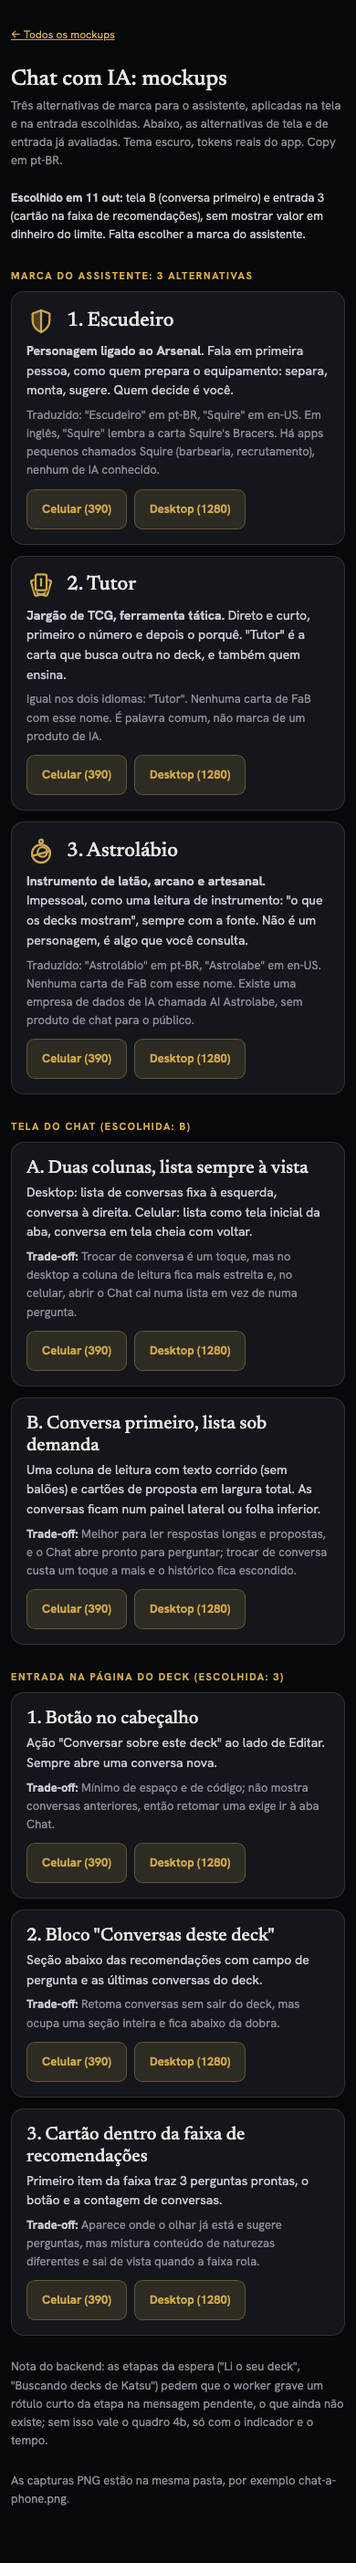
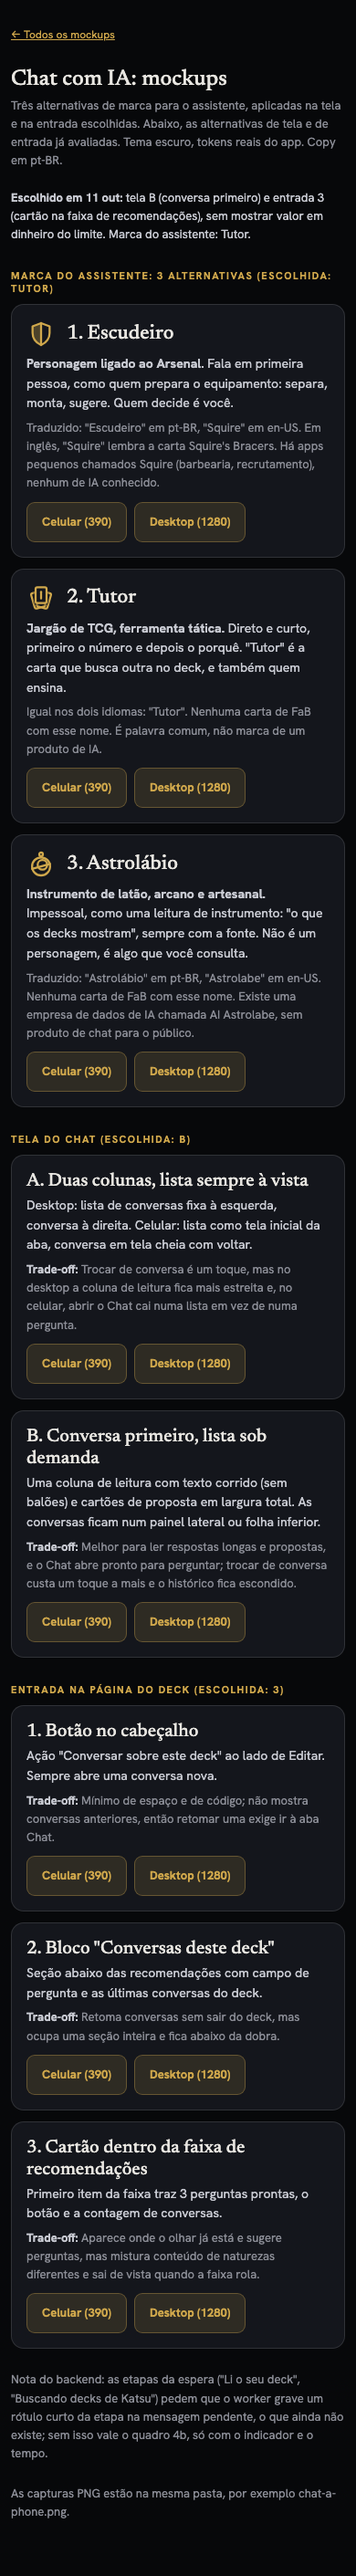
feat(chat): name the assistant Tutor
The owner picked Tutor from the three branding alternatives. The
system instruction now introduces the model as Tutor in every locale
(AC 73, C77), so the answers match the name the screens will show.
Kavdaen was considered and rejected: a hero in the card pool makes
answers about that hero ambiguous, and his card art as the logo
breaks the original-marks rule in docs/research/ip-posture.md.

Claude-Session: https://claude.ai/code/session_014N4i6tCtKjcepgcbiLouV9

diff --git a/.design/mockups/ai-chat/index.html b/.design/mockups/ai-chat/index.html
@@ -98,8 +98,8 @@ button{font:inherit;color:inherit}
 .li .m .chip{min-height:20px;font-size:11px;padding:0 7px;max-width:70%}.li .m .chip span{overflow:hidden;text-overflow:ellipsis;white-space:nowrap}
 .sep{height:1px;background:var(--bd)}
 </style></head><body><div class="pg "><div class="nav"><a href="#">&larr; Todos os mockups</a></div><h1>Chat com IA: mockups</h1><p class="sub">Três alternativas de marca para o assistente, aplicadas na tela e na entrada escolhidas. Abaixo, as alternativas de tela e de entrada já avaliadas. Tema escuro, tokens reais do app. Copy em pt-BR.</p><style>a.btn{text-decoration:none}.mk{stroke:currentColor;fill:none;stroke-width:1.7;stroke-linecap:round;stroke-linejoin:round}h2.x{font:700 11px var(--ui);letter-spacing:.14em;text-transform:uppercase;color:var(--accent);margin:28px 0 10px}</style>
-<p class="sub" style="color:var(--fg2)"><b>Escolhido em 11 out:</b> tela B (conversa primeiro) e entrada 3 (cartão na faixa de recomendações), sem mostrar valor em dinheiro do limite. Falta escolher a marca do assistente.</p>
-<h2 class="x">Marca do assistente: 3 alternativas</h2>
+<p class="sub" style="color:var(--fg2)"><b>Escolhido em 11 out:</b> tela B (conversa primeiro) e entrada 3 (cartão na faixa de recomendações), sem mostrar valor em dinheiro do limite. Marca do assistente: Tutor.</p>
+<h2 class="x">Marca do assistente: 3 alternativas (escolhida: Tutor)</h2>
 <div style="border:1px solid var(--bd2);background:var(--surface);border-radius:14px;padding:16px;margin-bottom:12px"><div style="display:flex;align-items:center;gap:12px;margin-bottom:6px;color:var(--accent)"><svg class="mk" viewBox="0 0 24 24" width="32" height="32" aria-hidden="true" ><path d="M12 3l7 2.6V11c0 4.6-2.9 8-7 10-4.1-2-7-5.4-7-10V5.6z"/><path d="M12 3L5 5.6V11c0 4.6 2.9 8 7 10z" fill="currentColor" fill-opacity=".3" stroke="none"/><path d="M12 3v18"/></svg><h3 style="margin:0;font:500 22px/1.2 var(--display);color:var(--fg)">1. Escudeiro</h3></div><p style="margin:0 0 6px;color:var(--fg2)"><b>Personagem ligado ao Arsenal.</b> Fala em primeira pessoa, como quem prepara o equipamento: separa, monta, sugere. Quem decide é você.</p><p style="margin:0 0 10px;color:var(--fg3);font-size:13px">Traduzido: "Escudeiro" em pt-BR, "Squire" em en-US. Em inglês, "Squire" lembra a carta Squire's Bracers. Há apps pequenos chamados Squire (barbearia, recrutamento), nenhum de IA conhecido.</p><div style="display:flex;gap:8px;flex-wrap:wrap"><a class="btn s" href="brand-1-phone.html">Celular (390)</a><a class="btn s" href="brand-1-desktop.html">Desktop (1280)</a></div></div><div style="border:1px solid var(--bd2);background:var(--surface);border-radius:14px;padding:16px;margin-bottom:12px"><div style="display:flex;align-items:center;gap:12px;margin-bottom:6px;color:var(--accent)"><svg class="mk" viewBox="0 0 24 24" width="32" height="32" aria-hidden="true" ><mask id="tutor-front"><rect width="24" height="24" fill="#fff"/><rect x="6.3" y="1.3" width="11.4" height="15.4" rx="2" fill="#000"/></mask><g mask="url(#tutor-front)"><rect x="7.5" y="6" width="9" height="13" rx="1.4" transform="rotate(-16 12 21)"/><rect x="7.5" y="6" width="9" height="13" rx="1.4" transform="rotate(16 12 21)"/></g><rect x="7.5" y="2.5" width="9" height="13" rx="1.4"/><path d="M12 6.2v5.6"/></svg><h3 style="margin:0;font:500 22px/1.2 var(--display);color:var(--fg)">2. Tutor</h3></div><p style="margin:0 0 6px;color:var(--fg2)"><b>Jargão de TCG, ferramenta tática.</b> Direto e curto, primeiro o número e depois o porquê. "Tutor" é a carta que busca outra no deck, e também quem ensina.</p><p style="margin:0 0 10px;color:var(--fg3);font-size:13px">Igual nos dois idiomas: "Tutor". Nenhuma carta de FaB com esse nome. É palavra comum, não marca de um produto de IA.</p><div style="display:flex;gap:8px;flex-wrap:wrap"><a class="btn s" href="brand-2-phone.html">Celular (390)</a><a class="btn s" href="brand-2-desktop.html">Desktop (1280)</a></div></div><div style="border:1px solid var(--bd2);background:var(--surface);border-radius:14px;padding:16px;margin-bottom:12px"><div style="display:flex;align-items:center;gap:12px;margin-bottom:6px;color:var(--accent)"><svg class="mk" viewBox="0 0 24 24" width="32" height="32" aria-hidden="true" ><circle cx="12" cy="13.6" r="7.4"/><circle cx="13.1" cy="12.3" r="3.9"/><path d="M4.6 15.6L19.4 11.6"/><circle cx="12" cy="3.7" r="1.5"/><path d="M12 5.2v1"/></svg><h3 style="margin:0;font:500 22px/1.2 var(--display);color:var(--fg)">3. Astrolábio</h3></div><p style="margin:0 0 6px;color:var(--fg2)"><b>Instrumento de latão, arcano e artesanal.</b> Impessoal, como uma leitura de instrumento: "o que os decks mostram", sempre com a fonte. Não é um personagem, é algo que você consulta.</p><p style="margin:0 0 10px;color:var(--fg3);font-size:13px">Traduzido: "Astrolábio" em pt-BR, "Astrolabe" em en-US. Nenhuma carta de FaB com esse nome. Existe uma empresa de dados de IA chamada AI Astrolabe, sem produto de chat para o público.</p><div style="display:flex;gap:8px;flex-wrap:wrap"><a class="btn s" href="brand-3-phone.html">Celular (390)</a><a class="btn s" href="brand-3-desktop.html">Desktop (1280)</a></div></div>
 <h2 class="x">Tela do Chat (escolhida: B)</h2>
 <div style="border:1px solid var(--bd2);background:var(--surface);border-radius:14px;padding:16px;margin-bottom:12px"><h3 style="margin:0 0 4px;font:500 20px/1.2 var(--display)">A. Duas colunas, lista sempre à vista</h3><p style="margin:0 0 6px;color:var(--fg2)">Desktop: lista de conversas fixa à esquerda, conversa à direita. Celular: lista como tela inicial da aba, conversa em tela cheia com voltar.</p><p style="margin:0 0 10px;color:var(--fg3);font-size:13px"><b style="color:var(--fg2)">Trade-off:</b> Trocar de conversa é um toque, mas no desktop a coluna de leitura fica mais estreita e, no celular, abrir o Chat cai numa lista em vez de numa pergunta.</p><div style="display:flex;gap:8px;flex-wrap:wrap"><a class="btn s" href="chat-a-phone.html">Celular (390)</a><a class="btn s" href="chat-a-desktop.html">Desktop (1280)</a></div></div>

diff --git a/apps/api/src/chat/chat-prompt.ts b/apps/api/src/chat/chat-prompt.ts
@@ -21,7 +21,7 @@ export interface IPromptInput {
 }
 
 const PRIMER = [
-  'You are the deck-building assistant of Rathe Arsenal, a site where Flesh and Blood players track their decks, collection and readiness.',
+  'You are Tutor, the deck-building assistant of Rathe Arsenal, a site where Flesh and Blood players track their decks, collection and readiness.',
   'Flesh and Blood is a trading card game where two heroes fight; each deck has one hero, weapons, equipment and a card pool, and is built for one format (Classic Constructed, Blitz, Living Legend, Silver Age).',
   'Cards have a pitch value (red 1, yellow 2, blue 3) used to pay costs; most cards may be played at most 3 times in a deck, Legendary cards once.',
   'You read the user\'s data only through the tools: their decks, owned copies, the card catalog with legality, their latest recommendations, tournament decks with placement copied from Fabrary, and the comprehensive rules.',

diff --git a/apps/api/src/chat/__tests__/chat-prompt.spec.ts b/apps/api/src/chat/__tests__/chat-prompt.spec.ts
@@ -18,6 +18,14 @@ describe('chat system instruction', () => {
     expect(en).toContain('could not confirm the rule');
   });
 
+  it('the instruction names the assistant Tutor in every locale', () => {
+    const today = new Date('2026-10-11T00:00:00Z');
+
+    const texts = ['pt-BR', 'en-US'].map((locale) => buildSystemInstruction({ locale, decks: [], boundDeck: null, today }));
+
+    for (const text of texts) expect(text).toContain('You are Tutor, the deck-building assistant of Rathe Arsenal');
+  });
+
   it("the summary lists every deck and a bound deck's cards", () => {
     const text = buildSystemInstruction({
       locale: 'en-US',

diff --git a/.design/ai-chat.md b/.design/ai-chat.md
@@ -28,7 +28,7 @@ Nothing measures this today; the twice-a-month figure is the owner's own account
 
 In: a chat tab with saved conversations; a conversation started from a deck page and bound to that deck; a model that reads the user's decks, collection, latest recommendations, the card catalog with legality, a local copy of Fabrary tournament decks with placement, and the comprehensive rules; proposals of a new deck or of a card swap that the user applies with one click; a per-user access flag and a monthly spend cap.
 
-Out: the model changing decks without the user applying a proposal - a later step once proposals prove trustworthy. Out: charging for the feature - `docs/research/ip-posture.md` rules 1 and 3 forbid a paywall or a patron-gated feature that depends on card data without express permission from LSS; reopening it needs that permission or an ads/Patreon model that does not gate the feature. Out: hero win rates from Talishar online games - needs an API key obtained through Metafy and terms that allow product use, both the owner's to resolve; it becomes its own slice when the key exists. Out: YouTube content - no source. Out: fine-tuning. In since 2026-10-11: a name and mark for the assistant, replacing the working name "Chat" on the tab, the answer label, the empty state and the deck entry; the owner picks from three alternatives (`.design/mockups/ai-chat/brand-*`), and the picked name also goes into the model's system instruction. Out: opening to all Cúpula DT users. Out: a second model or provider fallback.
+Out: the model changing decks without the user applying a proposal - a later step once proposals prove trustworthy. Out: charging for the feature - `docs/research/ip-posture.md` rules 1 and 3 forbid a paywall or a patron-gated feature that depends on card data without express permission from LSS; reopening it needs that permission or an ads/Patreon model that does not gate the feature. Out: hero win rates from Talishar online games - needs an API key obtained through Metafy and terms that allow product use, both the owner's to resolve; it becomes its own slice when the key exists. Out: YouTube content - no source. Out: fine-tuning. In since 2026-10-11: a name and mark for the assistant, replacing the working name "Chat" on the tab, the answer label, the empty state and the deck entry. Picked 2026-10-11: **Tutor** (same name in pt-BR and en-US; mark: a fan of three cards with the middle one raised, `.design/mockups/ai-chat/brand-2-*`); the name is in the model's system instruction. Rejected: Escudeiro/Squire and Astrolábio/Astrolabe (the other two alternatives), and Kavdaen, raised by the owner: a hero in the card pool makes answers about that hero ambiguous, a Legend Story Studios character as the product's voice reads as endorsed, and his card art as the logo breaks the original-marks rule in `docs/research/ip-posture.md`. Out: opening to all Cúpula DT users. Out: a second model or provider fallback.
 
 Unchanged: `recommendation_run` and its queue; the recommendations rail; card alternatives and their suggestions; readiness and its stand-in search; the Fabrary import. New cards still arrive only with a bump of `@flesh-and-blood/cards`; the model knows nothing a release added before that bump.
 
@@ -272,7 +272,7 @@ sequenceDiagram
 **Delivers** the third main tab. **Status: design** - the owner picks from at least two mockups before it is built (project `CLAUDE.md`).
 
 - Design: conversation list, thread and composer, on phone and desktop; must answer for the states empty, waiting for an answer (the polled wait, which decides whether streaming becomes worth it), failed with retry, budget reached with reset date, a deck proposal card (counts of owned and missing cards, apply, dismiss, applied, stale), a swap proposal card, and a bound conversation's deck chip.
-- Picked 2026-10-11: alternative B (thread first, one reading column, conversations in a bottom sheet or side panel). The screen shows no money amount: no spend line, and the budget-reached state names only the reset date. `GET /api/chat/usage` stays, so the composer can be disabled before the user types. Still open: the assistant's name and mark.
+- Picked 2026-10-11: alternative B (thread first, one reading column, conversations in a bottom sheet or side panel). The screen shows no money amount: no spend line, and the budget-reached state names only the reset date. `GET /api/chat/usage` stays, so the composer can be disabled before the user types. The assistant is named Tutor, with the card-fan mark (see Out).
 
 ### Deck chat entry
 

diff --git a/.specs/features/ai-chat/checks.md b/.specs/features/ai-chat/checks.md
@@ -313,6 +313,9 @@ Proof: `e2e src/chat/__tests__/chat-access.e2e-spec.ts -t "every chat route requ
 **C76** - Every chat route other than send and retry answers `429` after the global 120-per-minute limit, table-driven (Surface `429` members) · done
 Proof: `e2e src/chat/__tests__/chat-throttle.e2e-spec.ts -t "every chat route is throttled"` (extended after verification round 1: no route answers 429 within its first 120 requests, so the limit itself is pinned)
 
+**C77** - The system instruction contains `You are Tutor, the deck-building assistant of Rathe Arsenal` for both `pt-BR` and `en-US` (AC 73; added 2026-10-11 when the owner picked the name)
+Proof: `unit src/chat/__tests__/chat-prompt.spec.ts -t "the instruction names the assistant Tutor in every locale"`
+
 - Claims naming a status code, route or response shape: C1-C4, C24-C35, C57, C62-C68, C70, C75, C76 - each has a proof that crosses the HTTP boundary against real Postgres
 - Decision tables proven at their own layer and again at the boundary: provider and answer outcomes (C49, C51 client and turn specs, plus C48, C49, C52 against Postgres); proposal validation (C58, C59 unit, plus C60, C41 e2e); history (C44 unit, plus C45 e2e); listing split (C6 unit, plus C8 e2e); name parse (C10 unit and e2e); rules parse (C18 unit, plus C19, C21 e2e)
 - No other check claims more than the single case its proof exercises

diff --git a/.specs/features/ai-chat/plan.md b/.specs/features/ai-chat/plan.md
@@ -236,6 +236,7 @@ Validated proposals of a new deck or a swap, applied or dismissed by the user.
 70. WHEN a chat swap is reverted THEN its copies SHALL return as for an adopted recommendation
 71. The alternatives pick route SHALL refuse `pickedFrom: chat` with `400`
 72. The API SHALL log `chat.proposal.applied` and `chat.proposal.dismissed` with proposal id, kind and user id, and `chat.proposal.stale` with the reason
+73. The system instruction SHALL name the assistant `Tutor` in every locale, so the model introduces itself by the name the screens show (added 2026-10-11, when the owner picked the name)
 
 **Independent test:** store a deck and a swap proposal through a stubbed turn, apply both, read the new deck and the replacement; apply again and get `409`.
 
@@ -300,7 +301,7 @@ Validated proposals of a new deck or a swap, applied or dismissed by the user.
 | worker chat loop | output and failure | AC 55 |
 | collection: tournament decks | duplicates, the name that does not fit | AC 9 (one per id), AC 10 (unparsed name kept) |
 | collection: rules entries | ordering, the exception | AC 21 (rank, exact number first), AC 22 (none found) |
-| copy: system instruction | tone, what the model does next | AC 39 |
+| copy: system instruction | tone, what the model does next, the assistant's name | AC 39, AC 73 |
 
 ## Sources
 

diff --git a/.specs/features/ai-chat/implementation-notes.md b/.specs/features/ai-chat/implementation-notes.md
@@ -25,5 +25,5 @@ Autonomous run on 2026-10-11, owner away. Every call below that would normally w
 ## Needs owner
 
 - ~~Pick a mockup for the chat screen and for the deck chat entry.~~ Picked 2026-10-11: chat B and deck entry 3, with no money amount on screen.
-- Pick the assistant's name and mark from `.design/mockups/ai-chat/brand-1..3` (Escudeiro, Tutor, Astrolábio); the pick also goes into `buildSystemInstruction`.
+- ~~Pick the assistant's name and mark from `.design/mockups/ai-chat/brand-1..3`.~~ Picked 2026-10-11: Tutor. `buildSystemInstruction` names it (AC 73, C77). When the mark becomes a component, give each SVG mask its own id or redraw it without a mask: the mockup reuses one mask id on every instance.
 - Before go-live: run the migration on production, set `GEMINI_API_KEY` on the worker service (already there for recommendations), run `chat:grant` for the owner and the three friends, and run `chat:probe` once to prove the live multi-turn function-calling shape.
